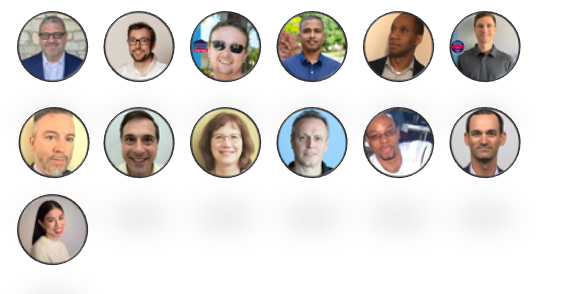
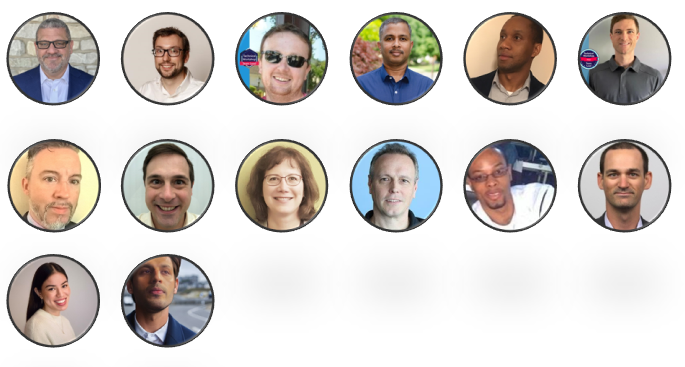
updated readme to include Reporting Issues and Feedback section

diff --git a/README.md b/README.md
@@ -25,18 +25,25 @@ This is why we want to encourage everyone to bring their skills and passions to 
 
 This event is perfect for anyone who has ever been curious about coding but wasn't sure where to start. With expert instructors, hands-on activities, and a supportive community, you will be amazed at how much you can accomplish in just a few hours. **No previous code or other technical experience is required.**
 
-**To get started click [here](./Track_1_ToDo_App/README.md)**
+📚 [**To get started click here**](./Track_1_ToDo_App/README.md)** 📚
+
+<br/>
+
+## Reporting issues and feedback
+Please use the  [Issues](https://github.com/microsoft/EveryoneCanCode-US/issues) tab to report any bugs, documentation issues and/or overall feedback.
 
 ## Contributor Wall of Fame
 Special thanks to the team that has worked on this to make it possible
 
-### Core Team
+### Core + Extended Team
 ![core_team](./content-images/everyone-can-code-core-team.png)
 
 ### Content Reviewers
-In addition to the core team, thank you to all of the additional content reviewers.
+In addition to the core and extended teams, thanks to all of the additional content reviewers.
 
 ![content-reviewers](./content-images/everyone-can-code-content-reviewers.png)
+
+
 
 ## Contributing
 
